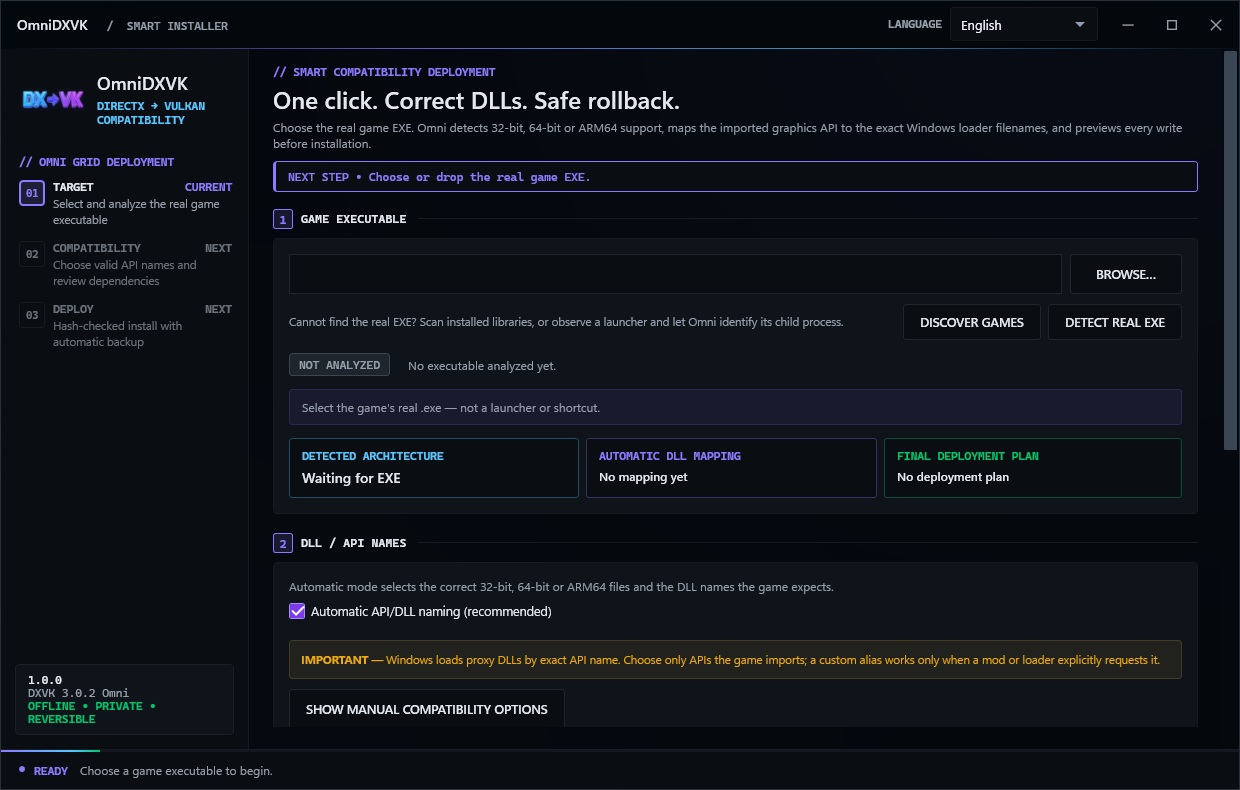
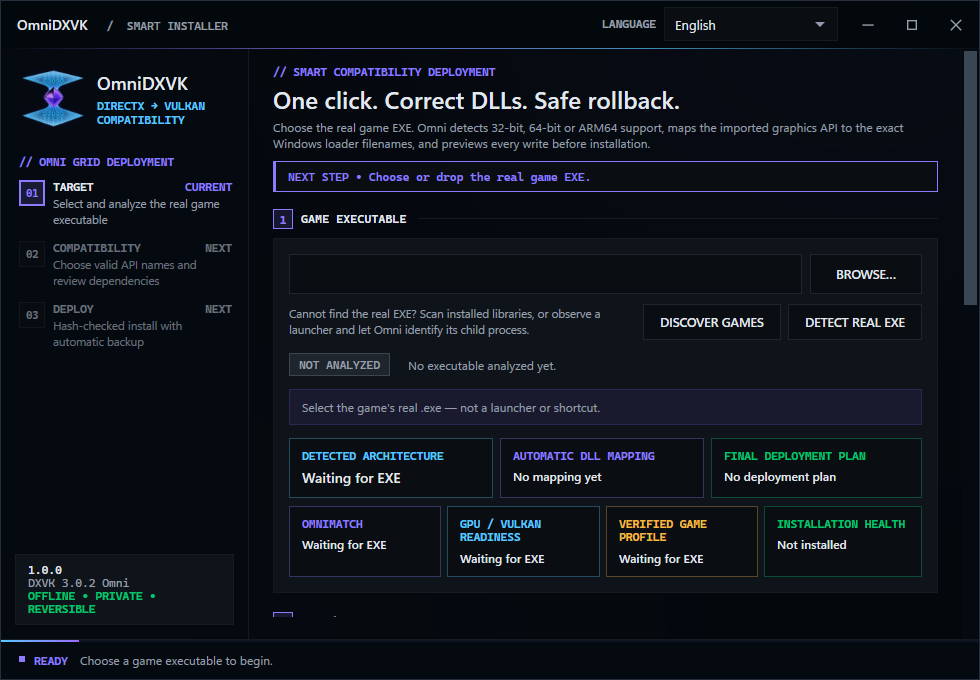
docs: synchronize current product presentation (#18)

diff --git a/README.md b/README.md
@@ -1,9 +1,9 @@
 <p align="center">
-  <img src="assets/brand/banner-animated.gif?v=20260823-wrapper-routing-v4" alt="OmniWrappers — Choose the game. Omni handles the wrapper." width="100%">
+  <img src="assets/brand/banner-animated.gif?v=20260825-current-symbols-v5" alt="OmniWrappers — Choose the game. Omni handles the wrapper." width="100%">
 </p>
 
 <h1 align="center">OmniWrappers</h1>
-<p align="center"><b>Choose the game. Omni handles the wrapper — four focused Windows compatibility installers with architecture-aware planning, safe app-local deployment, automatic backup, and hash-checked rollback.</b></p>
+<p align="center"><b>Choose the game. Omni handles the wrapper — four focused Windows compatibility installers with offline product matching, architecture-aware planning, recoverable app-local deployment, repair, safe upgrade, and hash-checked rollback.</b></p>
 <p align="center">Part of the <a href="#the-omnivex-suite">OmniVex</a> suite.</p>
 
 <p align="center">
@@ -15,10 +15,10 @@
 <!-- Suite metadata: Version · Platform · Languages · Telemetry · Distribution -->
 <p align="center">
   <img alt="Version" src="https://img.shields.io/badge/version-1.0.0-8A7BFF?style=flat-square">
-  <img alt="Platform" src="https://img.shields.io/badge/platform-Windows%2010%20%2F%2011-0078D4?style=flat-square">
-  <img alt="Languages" src="https://img.shields.io/badge/languages-EN%20%C2%B7%20DE%20%C2%B7%20ES%20%C2%B7%20FR%20%C2%B7%20RO-8A7BFF?style=flat-square">
-  <img alt="Telemetry" src="https://img.shields.io/badge/telemetry-none-2EA043?style=flat-square">
-  <img alt="Distribution" src="https://img.shields.io/badge/distribution-docs%20only-99A3B1?style=flat-square">
+  <img alt="Platform" src="https://img.shields.io/badge/platform-Windows%2010%20%2F%2011%20%C2%B7%20x86%20%2F%20x64-57C7FF?style=flat-square">
+  <img alt="Languages: 10" src="https://img.shields.io/badge/languages-10-8A7BFF?style=flat-square">
+  <img alt="Telemetry" src="https://img.shields.io/badge/telemetry-none-00C66D?style=flat-square">
+  <img alt="Distribution" src="https://img.shields.io/badge/distribution-docs%20only-969FAB?style=flat-square&labelColor=30363D">
 </p>
 
 <!-- Quick navigation. These chips jump to sections on this page or to the
@@ -49,8 +49,14 @@
 - Automatic PE architecture inspection and graphics-import analysis.
 - Exact proxy-DLL mapping with required companion expansion.
 - Preview-before-write, protected-game warnings, and collision review.
-- Per-game backup, bounded manifests, and hash-checked rollback.
-- Five live UI languages: English, German, Spanish, French, and Romanian.
+- Durable, bounded transactions with finish-or-restore recovery, missing-file
+  repair, safe same-target upgrade, one known-good previous version, and exact rollback preview.
+- OmniMatch, local GPU/Vulkan readiness, exact hash/version-only profiles, and
+  state-aware primary actions—all offline and explicit about their evidence limits.
+- An optional reversible 4 GB address-space path for eligible native x86 games,
+  with explicit confirmation, exact backup and hash-verified restore.
+- Ten live UI languages: English, German, Spanish, French, Romanian, Russian,
+  Simplified Chinese, Japanese, Korean, and Turkish.
 - Offline operation with no account, ads, telemetry, or background service.
 - Privacy-redacted support packages and a controlled test-launch path.
 - Precision Hybrid UI: flat graphite surfaces, compact technical labels,
@@ -79,10 +85,10 @@ work. OmniVKD3D is explicitly experimental on native Windows.
 ![OmniWrappers setup workflow from target selection through compatibility review to reversible deployment](assets/presentation/workflow.png?v=20260823-presentation-alignment-v2)
 
 1. **Target** — select the real game executable, not its launcher or shortcut.
-2. **Compatibility** — review detected architecture, imported API, exact DLL
-   names, required companions, warnings, and collisions.
-3. **Deploy** — install the reviewed plan beside the game with backup enabled;
-   roll back only the files matching the recorded installation.
+2. **Compatibility** — review architecture, imported API, exact DLL names,
+   OmniMatch, readiness, verified-profile status, warnings, and collisions.
+3. **Deploy** — install, safely upgrade, or repair the reviewed app-local plan;
+   recover interruptions explicitly and preview rollback before changing it.
 
 ## The actual installer experience
 
@@ -97,6 +103,13 @@ Every image below is a real capture of the current 1.0.0 installer candidate.
 | OmniVoodoo2 | OmniVKD3D<br><sub>Experimental</sub> |
 |---|---|
 | ![OmniVoodoo2 installer](assets/screenshots/omni-voodoo2-installer.png) | ![OmniVKD3D installer](assets/screenshots/omni-vkd3d-installer.png) |
+
+<details>
+<summary><strong>View all four installers across all ten interface languages</strong></summary>
+
+![Four OmniWrappers products in English, German, Spanish, French, Romanian, Russian, Simplified Chinese, Japanese, Korean, and Turkish](assets/screenshots/ten-language-matrix.png)
+
+</details>
 
 ## Get OmniWrappers
 
@@ -140,7 +153,11 @@ are not yet Authenticode-signed. This repository is therefore a product
 showcase and documentation home—not a public binary distribution channel.
 
 - Consumer surface gate: **17/17 passed**
-- Smart installation flow: **11/11 passed**
+- Smart installation flow: **12/12 passed**
+- Transaction/recovery and consumer intelligence: **5/5 passed**
+- Reversible 4 GB address-space safety: **16/16 passed**
+- Ten-language localization: **14/14 passed**
+- Consumer UI contract: **10/10 passed**
 - Documentation maintenance gate: **4/4 passed**
 
 Read the [changelog](CHANGELOG.md) and [security policy](SECURITY.md) for

diff --git a/CHANGELOG.md b/CHANGELOG.md
@@ -3,13 +3,30 @@
 First unified consumer release of OmniDXVK, OmniDxWrapper, OmniVoodoo2 and
 OmniVKD3D.
 
+## Current final-candidate refresh — 25 August 2026
+
+- Expanded the live selector and guided consumer UI to ten languages: English,
+  German, Spanish, French, Romanian, Russian, Simplified Chinese, Japanese,
+  Korean, and Turkish, with reviewed safety terminology and safe English fallback.
+- Added OmniMatch, local graphics/Vulkan readiness, exact hash/version-only
+  offline profiles, installation-health states, repair, safe upgrade, one
+  previous known-good version, and explicit finish-or-restore recovery.
+- Added the optional reversible 4 GB address-space path for eligible native x86
+  games, isolated from wrapper deployment and protected by exact backup/hash checks.
+- Moved long-running analysis and lifecycle work off the UI thread, removed
+  perpetual idle animation clocks, and unified all consumer confirmations and
+  secondary windows under the square OmniVex visual system.
+- Current gates pass: consumer 17/17, smart flow 12/12, transaction/recovery
+  5/5, 4 GB safety 16/16, localization 14/14, UI contract 10/10,
+  documentation 4/4, and payload lock 22/22.
+
 ## Highlights
 
 - Unified 1.0.0 installer identity across all four products.
 - Automatic PE architecture and graphics-import analysis.
 - Exact DLL-name planning with companion dependency expansion.
 - Per-game backup, manifest, collision handling and rollback.
-- Five interface languages and readable hover help.
+- Ten interface languages and readable localized hover/help flows.
 - Consumer-only surface with developer/Wave functions excluded.
 - Distinct vendor-coded icons and accessible Precision Hybrid visual system.
 - OmniVoodoo2 changed to user-supplied, pinned official packages.
@@ -20,7 +37,11 @@ OmniVKD3D.
 ## Verification
 
 - Consumer surface gate: **17/17 passed**.
-- Smart installation flow: **11/11 passed**.
+- Smart installation flow: **12/12 passed**.
+- Transaction/recovery and consumer intelligence: **5/5 passed**.
+- Reversible 4 GB address-space safety: **16/16 passed**.
+- Ten-language localization: **14/14 passed**.
+- Consumer UI contract: **10/10 passed**.
 - Documentation maintenance gate: **4/4 passed**.
 
 ## Known limits

diff --git a/FEATURES.md b/FEATURES.md
@@ -18,16 +18,32 @@
 - Detects existing wrappers and requires a reviewed decision on collisions.
 - Backs up replaced files by default.
 - Records installed hashes and restores only the matching installation.
+- Uses a bounded durable write-ahead journal for install, upgrade, repair,
+  previous-version restore, and rollback.
+- After interruption, explicitly finishes the prepared state or restores the
+  exact prior state while protecting later user changes.
+- Supports same-target-set safe upgrades, one previous known-good version, and
+  missing-file-only repair without replacing modified tracked files.
+- Offers a preview of every restore, remove, and protect action before rollback.
 - Bounds rollback manifests and streams backup restoration with fixed memory.
 - Provides a reversible rollback flow without a global Windows uninstall.
 
 ### Friendly consumer experience
 
 - Consumer-only interface without engineering or benchmark panels.
-- Five live UI languages: English, Deutsch, Español, Français and Română.
+- Ten live UI languages: English, Deutsch, Español, Français, Română, Русский,
+  简体中文, 日本語, 한국어, and Türkçe, with live switching, local persistence,
+  first-run Windows locale detection, and safe English fallback.
 - Plain-language hover help and UI Automation help text.
 - Game discovery, launcher-to-real-EXE detection and drag/drop path entry.
-- Game check, controlled test launch and privacy-redacted support package.
+- OmniMatch, local GPU/Vulkan readiness, exact hash/version-only offline
+  profiles, and installation-health cards with evidence limits stated in the UI.
+- Game check, controlled test launch and privacy-redacted support package with
+  exact pre-save contents, logs off by default, and no automatic upload.
+- Optional reversible 4 GB address space for eligible native x86 games on
+  64-bit Windows. It requires explicit confirmation and uses exact hash-verified
+  backup and restore; signed, managed, protected, launcher, system/network,
+  reparse, x64/ARM64, and later-changed targets are blocked.
 - Precision Hybrid styling with flat graphite surfaces, compact technical
   labels, subtle preference-aware motion, and high-contrast support.
 
